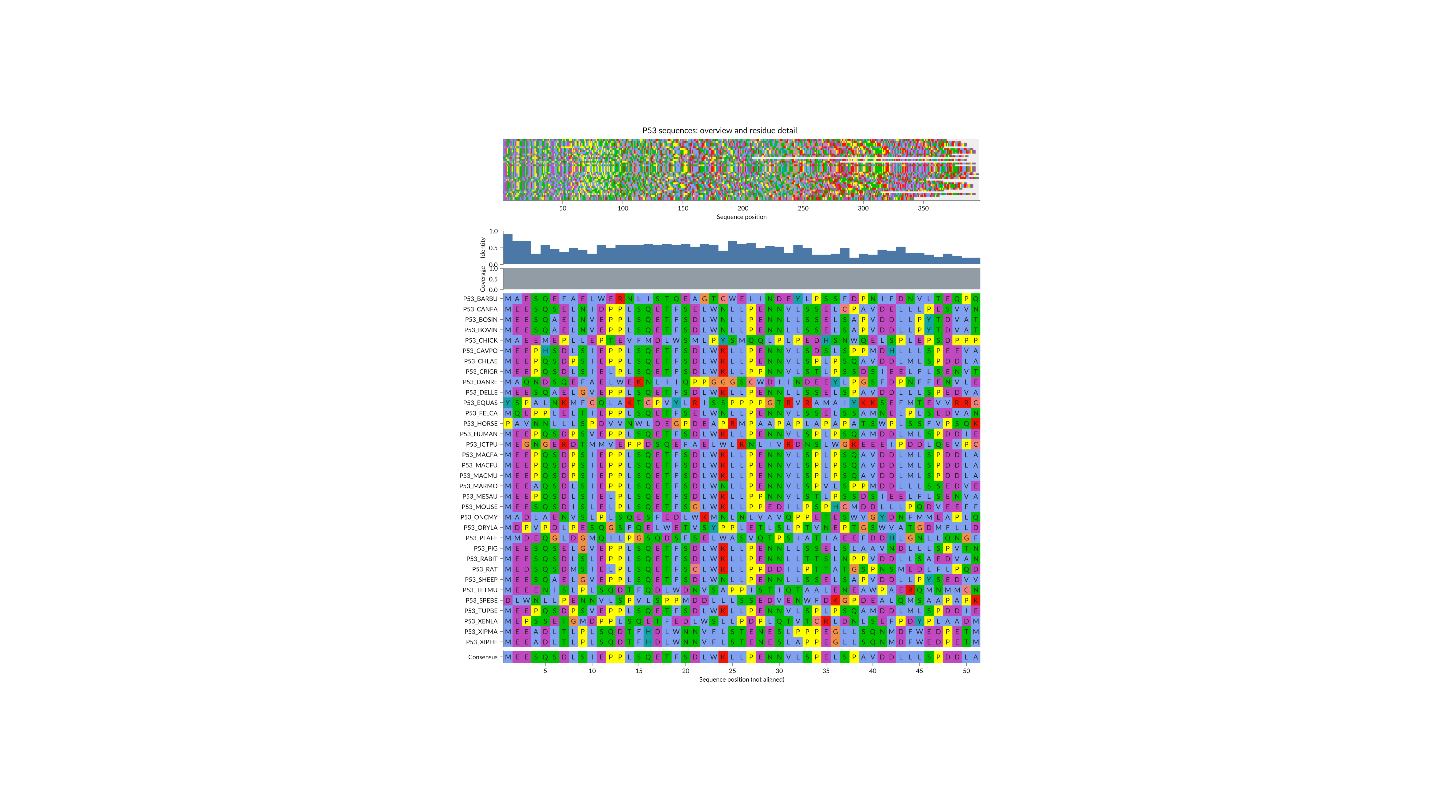
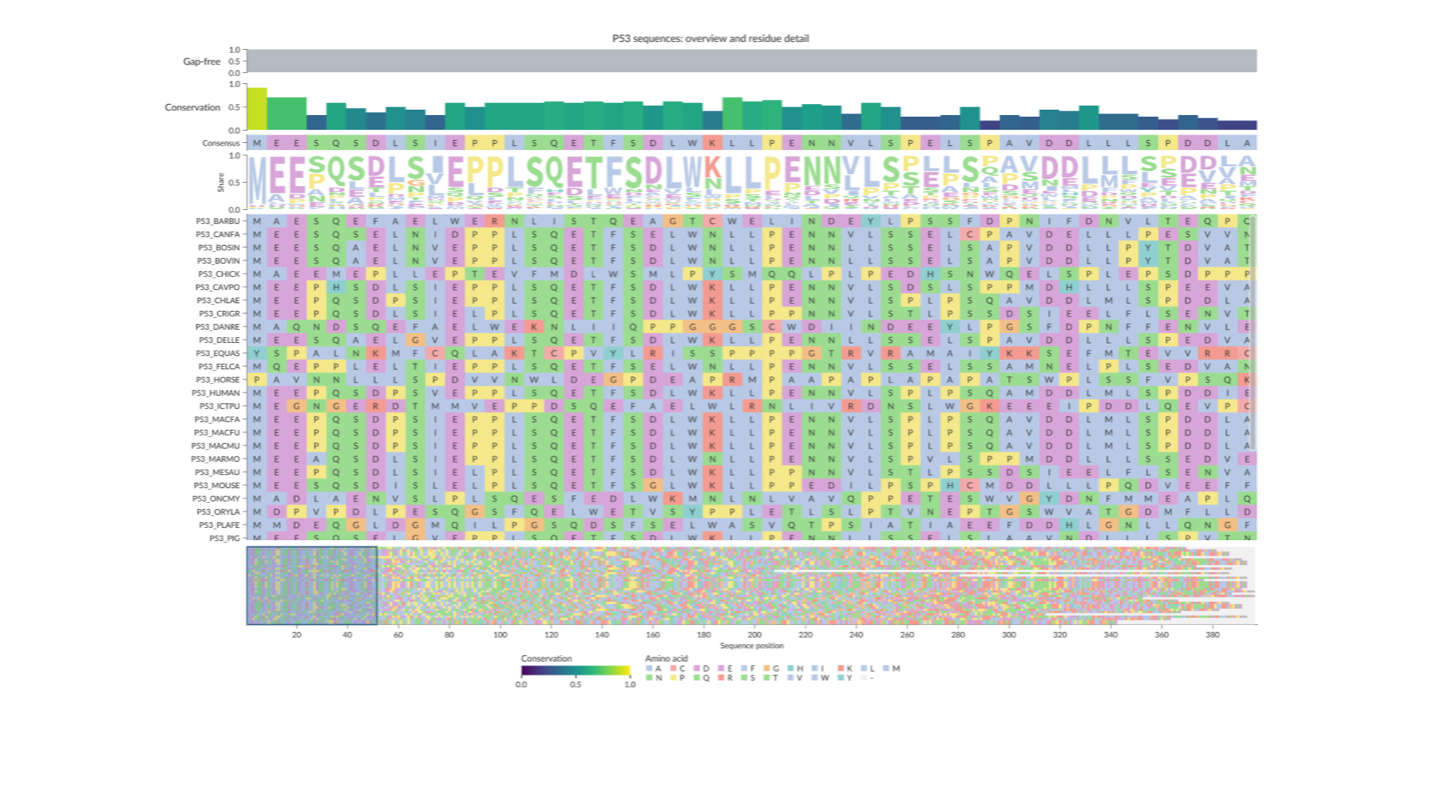
feat(gallery): refine P53 sequence comparison

diff --git a/docs/examples/p53_sequence_comparison.py b/docs/examples/p53_sequence_comparison.py
@@ -1,7 +1,7 @@
 """P53 sequence comparison with an overview brush.
 
-Explore the p53 FASTA used by Dash Bio, with residue tiles, a consensus row,
-column identity, and sequence coverage. The source is ungapped, not an MSA.
+Explore the p53 FASTA used by Dash Bio, with residue tiles, a consensus logo,
+position agreement, sequence coverage, and a linked overview.
 """
 
 import genome_spy as gs
@@ -10,44 +10,70 @@ from genome_spy.datasets import load_dataset
 META = {
     "category": "Reference annotation tracks",
     "order": 29,
-    "height": 980,
+    "height": 940,
     "max_width": 1000,
 }
 
 # Load prepared sequence rows and per-position summaries.
 data = load_dataset("p53_sequence_comparison")
-# Use consistent amino-acid colors; grey fills the ends of shorter sequences.
+# Use soft amino-acid colors; grey fills the ends of shorter sequences.
 residue_colors = gs.Scale(
     domain=list("ACDEFGHIKLMNPQRSTVWY-"),
     range=[
-        "#80a0f0",
-        "#f08080",
-        "#c048c0",
-        "#c048c0",
-        "#80a0f0",
-        "#f09048",
-        "#15a4a4",
-        "#80a0f0",
-        "#f01505",
-        "#80a0f0",
-        "#80a0f0",
-        "#00c000",
-        "#ffff00",
-        "#00c000",
-        "#f01505",
-        "#00c000",
-        "#00c000",
-        "#80a0f0",
-        "#80a0f0",
-        "#15a4a4",
-        "#eeeeee",
+        "#b8c9e6",
+        "#f3aaaa",
+        "#d7a5d7",
+        "#d7a5d7",
+        "#b8c9e6",
+        "#f2bf86",
+        "#8fcfcf",
+        "#b8c9e6",
+        "#f39b91",
+        "#b8c9e6",
+        "#b8c9e6",
+        "#9bdc91",
+        "#f4e88a",
+        "#9bdc91",
+        "#f39b91",
+        "#9bdc91",
+        "#9bdc91",
+        "#b8c9e6",
+        "#b8c9e6",
+        "#8fcfcf",
+        "#f1f1f1",
     ],
 )
 color = gs.Color("residue:N").scale(residue_colors).legend(None)
+legend_color = (
+    gs.Color("residue:N").scale(residue_colors).legend(title="Amino acid", columns=11)
+)
 # Share the range chosen by dragging across the overview.
 brush = gs.param("p53Window")
 selection = gs.selection_interval(
-    "p53Window", encodings=["x"], push="outer", mark=gs.BrushConfig(fillOpacity=0.12)
+    "p53Window",
+    encodings=["x"],
+    push="outer",
+    mark=gs.BrushConfig(
+        clip=False,
+        fill="#4c78a8",
+        fillOpacity=0.28,
+        stroke="#244f78",
+        strokeOpacity=0.9,
+        strokeWidth=1.5,
+        shadowBlur=3,
+        shadowColor="#244f78",
+        shadowOpacity=0.35,
+        zindex=11,
+    ),
+)
+# Follow one sequence position through all detail tracks.
+detail_ruler = gs.ruler(
+    "positionRuler",
+    persist=False,
+    encodings=["x"],
+    extent="container",
+    snap=False,
+    mark=gs.RulerMarkConfig(stroke="#30343b", strokeWidth=1, opacity=0.4),
 )
 
 # Keep all positions visible here; drag to choose the range shown below.
@@ -62,6 +88,7 @@ overview = (
         .scale(domain=data["sequence_order"], reverse=True)
         .axis(None),
         color=color,
+        tooltip=["identifier:N", "accession:N", "position:Q", "residue:N"],
     )
     .properties(height=100)
     .add_params(selection)
@@ -70,28 +97,86 @@ overview = (
 overview_group = (
     gs.vconcat(overview)
     .resolve_scale(x="excluded")
-    .properties(padding=gs.Paddings(top=24))
+    .properties(padding=gs.Paddings(top=6))
 )
 
-# Show the fraction of all 34 sequences matching the most common amino acid.
-identity = (
+# Show the fraction matching the most common amino acid at each position.
+conservation = (
     gs.Chart(data["columns"])
-    .mark_rect(color="#4c78a8")
+    .mark_rect()
     .encode(
         x=gs.X("position:I").axis(None),
-        y=gs.Y("identity:Q").scale(domain=[0, 1]).axis(tickCount=3).title("Identity"),
+        y=gs.Y("identity:Q").scale(domain=[0, 1]).axis(tickCount=3, title=None),
+        color=gs.Color("identity:Q")
+        .scale(domain=[0, 1], scheme="viridis")
+        .legend(title="Conservation", gradientLength=140, tickCount=3),
         tooltip=["position:Q", "identity:Q", "residue:N"],
     )
-    .properties(height=55)
+    .properties(height=60, title=gs.title("Conservation", style="track-title"))
 )
-# Show the fraction of sequences that reach each position.
-coverage = (
-    identity.mark_rect(color="#929ca5")
+# Show the fraction of sequences without a gap at each position.
+gap_free = (
+    gs.Chart(data["columns"])
+    .mark_rect(color="#b4bbc2")
     .encode(
-        y=gs.Y("coverage:Q").scale(domain=[0, 1]).axis(tickCount=3).title("Coverage"),
+        x=gs.X("position:I").axis(None),
+        y=gs.Y("coverage:Q").scale(domain=[0, 1]).axis(tickCount=3, title=None),
         tooltip=["position:Q", "coverage:Q"],
     )
-    .properties(height=35)
+    .properties(
+        height=30,
+        padding=gs.Paddings(bottom=8),
+        title=gs.title("Gap-free", style="track-title"),
+    )
+)
+
+# Show the most common amino acid as a compact consensus row.
+consensus_tiles = (
+    gs.Chart(data["columns"])
+    .mark_rect()
+    .encode(
+        x=gs.X("position:I").axis(None),
+        y=gs.Y("identifier:N").title(None),
+        color=color,
+        tooltip=["position:Q", "residue:N", "identity:Q"],
+    )
+)
+consensus_letters = consensus_tiles.mark_text(size=11, fitToBand=True).encode(
+    text="residue:N", color=gs.value("#202020")
+)
+consensus = (consensus_tiles + consensus_letters).properties(height=20)
+
+# Summarize the residue mixture at each position as a sequence logo.
+consensus_logo = (
+    gs.Chart(data["cells"])
+    .transform_filter(gs.datum.residue != "-")
+    .transform_aggregate(groupby=["position", "residue"])
+    .transform_stack(
+        field="count",
+        groupby=["position"],
+        offset="normalize",
+        as_=["_y0", "_y1"],
+        sort=gs.compare("count", order="ascending"),
+    )
+    .mark_text(
+        font="Source Sans Pro",
+        fontWeight=700,
+        size=90,
+        squeeze=True,
+        fitToBand=True,
+        logoLetters=True,
+        paddingX=0,
+        paddingY=0,
+    )
+    .encode(
+        x=gs.X("position:I").axis(None),
+        y=gs.Y("_y0:Q").scale(domain=[0, 1]).title("Share"),
+        y2=gs.Y2("_y1"),
+        text=gs.Text("residue:N"),
+        color=color,
+        tooltip=["position:Q", "residue:N", "count:Q"],
+    )
+    .properties(height=70)
 )
 
 # Draw one colored tile per amino acid, with sequence details on hover.
@@ -103,37 +188,26 @@ tiles = (
         y=gs.Y("identifier:N")
         .scale(domain=data["sequence_order"], reverse=True)
         .title(None),
-        color=color,
+        color=legend_color,
         tooltip=["identifier:N", "accession:N", "position:Q", "residue:N"],
     )
 )
 # Add letters when there is enough room to read them.
-letters = tiles.mark_text(size=11, fitToBand=True, tooltip=None).encode(
+letters = tiles.mark_text(size=11, fitToBand=True).encode(
     text="residue:N", color=gs.value("#202020")
 )
-sequences = (tiles + letters).properties(height=gs.step(17))
-
-# Add a summary row showing the most common amino acid at each position.
-consensus_tiles = (
-    gs.Chart(data["columns"])
-    .mark_rect()
-    .encode(
-        x=gs.X("position:I")
-        .axis(tickMinStep=1)
-        .title("Sequence position (not aligned)"),
-        y=gs.Y("identifier:N").title(None),
-        color=color,
-        tooltip=["position:Q", "residue:N", "identity:Q"],
-    )
-)
-consensus_letters = consensus_tiles.mark_text(
-    size=11, fitToBand=True, tooltip=None
-).encode(text="residue:N", color=gs.value("#202020"))
-consensus = (consensus_tiles + consensus_letters).properties(height=20)
+sequences = (tiles + letters).properties(height=gs.step(17), viewportHeight=420)
 
 # Make all detail tracks follow the selected range, starting at the first 50 positions.
 details = (
-    gs.vconcat(identity, coverage, sequences, consensus, spacing=6)
+    gs.vconcat(
+        gap_free,
+        conservation,
+        consensus,
+        consensus_logo,
+        sequences,
+        spacing=6,
+    )
     .properties(
         scales=gs.scales(
             x=gs.Scale(
@@ -146,16 +220,26 @@ details = (
     )
     .resolve_scale(x="shared", y="independent")
     .resolve_axis(x="independent", y="independent")
+    .add_params(detail_ruler)
 )
-# Place the full overview above the linked detail tracks.
+# Place the full overview below the linked detail tracks.
 chart = (
-    (overview_group & details)
+    gs.vconcat(details, overview_group, spacing=2)
     .add_params(brush)
     .properties(
-        width=780,
-        spacing=18,
+        width="container",
         title="P53 sequences: overview and residue detail",
-        description="34 original, unaligned p53 sequences from the Dash Bio example. Drag the overview or zoom below to compare positions; grey cells pad shorter sequences.",
+        description="34 original, ungapped p53 sequences from the Dash Bio example. Drag the overview or zoom the detail tracks to compare positions; grey cells pad shorter sequences.",
     )
     .resolve_scale(x="independent", y="independent")
+    .resolve_legend(color="collected")
+    .configure_legend(
+        orient="bottom",
+        direction="horizontal",
+        titleOrient="top",
+        labelFontSize=10,
+        symbolSize=60,
+        spacing=20,
+        layout={"anchor": "middle"},
+    )
 )

diff --git a/tests/test_docs_gallery.py b/tests/test_docs_gallery.py
@@ -1126,6 +1126,64 @@ def test_multiple_sequence_alignment_configures_shared_x_scale_once() -> None:
     assert spec["vconcat"][1]["layer"][1]["encoding"]["color"] == {"value": "black"}
 
 
+def test_p53_sequence_comparison_uses_linked_summary_and_overview() -> None:
+    gallery = _load_gallery()
+    example = gallery.collect_example(EXAMPLES_DIR / "p53_sequence_comparison.py")
+    spec = example.spec
+
+    assert spec["width"] == "container"
+    assert example.height == 940
+    assert spec["spacing"] == 2
+    assert spec["resolve"]["legend"] == {"color": "collected"}
+    assert spec["config"]["legend"]["orient"] == "bottom"
+    assert spec["config"]["legend"]["layout"] == {"anchor": "middle"}
+    details, overview_group = spec["vconcat"]
+    assert details["params"] == [
+        {
+            "name": "positionRuler",
+            "persist": False,
+            "ruler": {
+                "encodings": ["x"],
+                "extent": "container",
+                "snap": False,
+                "mark": {
+                    "opacity": 0.4,
+                    "stroke": "#30343b",
+                    "strokeWidth": 1,
+                },
+            },
+        }
+    ]
+    gap_free, conservation, consensus, logo, sequences = details["vconcat"]
+    assert [gap_free["title"]["text"], conservation["title"]["text"]] == [
+        "Gap-free",
+        "Conservation",
+    ]
+    assert gap_free["padding"]["bottom"] == 8
+    assert conservation["encoding"]["color"]["scale"] == {
+        "domain": [0, 1],
+        "scheme": "viridis",
+    }
+    assert conservation["encoding"]["color"]["legend"]["title"] == "Conservation"
+    assert consensus["height"] == 20
+    assert consensus["layer"][0]["encoding"]["y"]["field"] == "identifier"
+    assert "title" not in logo
+    assert logo["transform"][-1]["offset"] == "normalize"
+    assert logo["mark"]["logoLetters"] is True
+    assert sequences["viewportHeight"] == 420
+    assert sequences["layer"][0]["encoding"]["color"]["legend"] == {
+        "columns": 11,
+        "title": "Amino acid",
+    }
+
+    overview = overview_group["vconcat"][0]
+    assert "title" not in overview
+    brush_mark = overview["params"][0]["select"]["mark"]
+    assert brush_mark["fillOpacity"] == 0.28
+    assert brush_mark["strokeWidth"] == 1.5
+    assert overview["params"][0]["push"] == "outer"
+
+
 def test_cytobands_suppresses_legends_to_preserve_the_ideogram() -> None:
     gallery = _load_gallery()
     spec = gallery.collect_example(EXAMPLES_DIR / "cytobands.py").spec

diff --git a/docs/examples/p53_sequence_comparison.md b/docs/examples/p53_sequence_comparison.md
@@ -1,16 +1,19 @@
 ## What to notice
 
-Drag the overview to choose the positions shown below. Residue tiles, summary
-bars, and consensus share the detail scale, so zooming or panning keeps them
-aligned. Hover a tile for its accession and position. Zoom in to read letters.
+Drag the overview at the bottom to choose the positions shown above. The
+summary tracks, consensus logo, and residue matrix stay aligned as the view
+moves. Move the pointer across the detail tracks to follow one position with
+the vertical ruler. Hover a tile for its accession and position. Zoom in to
+read letters.
 
-**Identity** is the most common amino acid's fraction of all 34 sequences at a
-position. **Coverage** is the fraction with a residue there. Consensus picks the
-most common residue, breaking ties alphabetically. Grey cells pad shorter rows.
+**Conservation** shows how many sequences share the most common amino acid at
+each position. **Gap-free** shows how many sequences contain a residue there;
+it stays full until the shorter sequences begin to end. The consensus row shows
+the most common residue, while the logo shows the full residue mixture with
+larger letters for larger shares.
 
 This adapts [Dash Bio AlignmentChart](https://dash.plotly.com/dash-bio/alignmentchart)
-with GenomeSpy rectangles, text, bars, and a shared brush. The summary uses
-identity rather than Dash Bio's default entropy score.
+with GenomeSpy rectangles, text, bars, a sequence logo, and a shared brush.
 
 :::{admonition} Data use and provenance
 :class: note
@@ -18,9 +21,9 @@ identity rather than Dash Bio's default entropy score.
 The [p53 FASTA](https://github.com/plotly/datasets/blob/0c447c47b757ad74edecab31f0d72f849d2e67c2/Dash_Bio/Genetic/alignment_viewer_p53.fasta)
 is from Plotly's MIT-licensed datasets repository: 34 UniProt-labelled sequences
 of 207–396 residues. These are **unequal-length, ungapped sequences**, not a
-multiple-sequence alignment. Matching column numbers do not establish homologous
-positions or evolutionary conservation. Python preserves the source order and
-residues, pads shorter rows, and calculates summaries; it does not perform an
-alignment. All chart data are packaged locally. For aligned input, see
+multiple-sequence alignment. The packaged data preserve the source order, pad
+shorter rows, and calculate position summaries; they do not perform an
+alignment. “Conservation” therefore means position-wise agreement here, not
+evolutionary conservation. For aligned input, see
 [Multiple sequence alignment](multiple_sequence_alignment.md).
 :::
